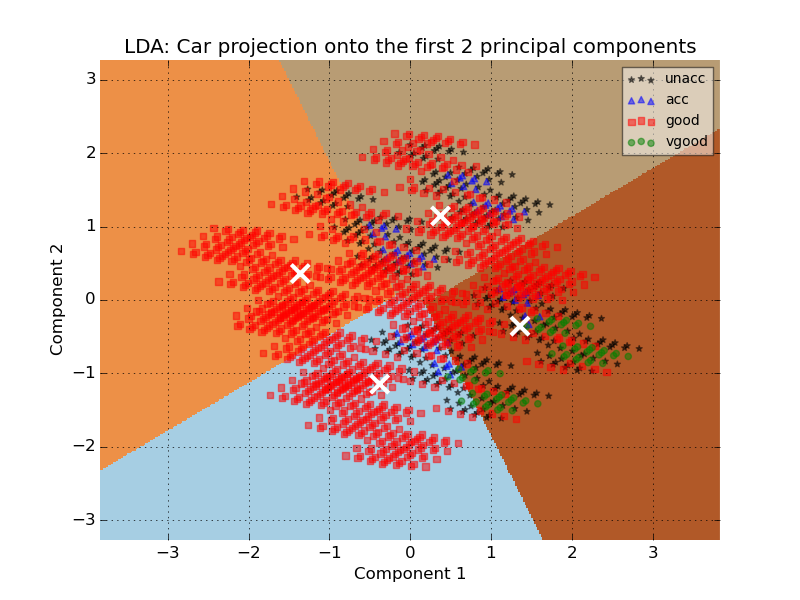
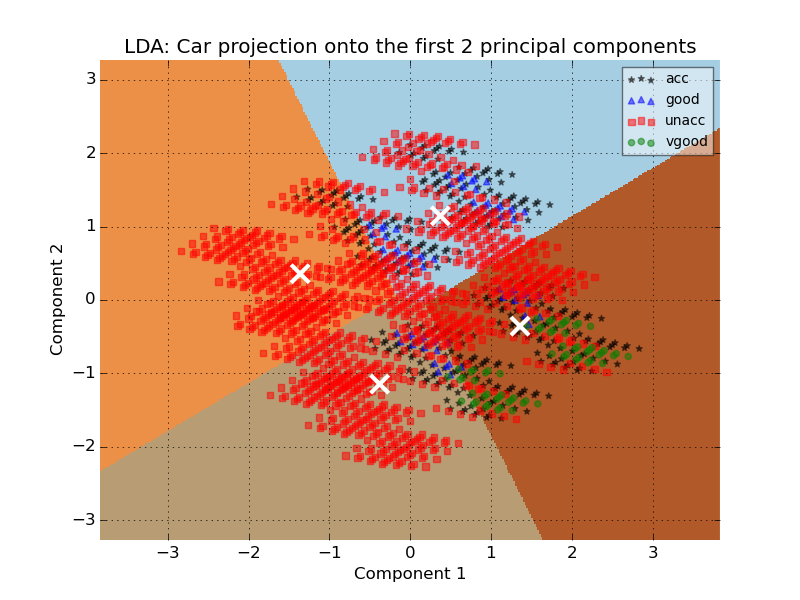
update

Changed region(s): [[0.125, 0.09, 0.9062, 0.9]]

diff --git a/proj3/experiments.py b/proj3/experiments.py
@@ -269,7 +269,7 @@ def plot_pro_1(x, y, alg, alg_name):
            cmap=plt.cm.Paired,
            aspect='auto', origin='lower')
     ax = plt.subplot(111)
-    label_dict = {0:'unacc', 1:'acc', 2:'good', 3:'vgood'}
+    label_dict = {2:'unacc', 0:'acc', 1:'good', 3:'vgood'}
     for label,marker,color in zip(
         range(0,4),('*', '^', 's', 'o'),('k','blue', 'red', 'green')):
 
@@ -360,6 +360,7 @@ if __name__=='__main__':
     x, y = load_data(dataset1)
     x_train, x_test, y_train, y_test = split_train_test(x, y, 0.3)
     dataset1 = dataset1.replace('.', '_')
+    print(y)
     
     print("--------------------------Experiment 1------------------------------")
     ks = [2,3,4,5,6,7]
@@ -372,24 +373,26 @@ if __name__=='__main__':
     print("--------------------------Experiment 3------------------------------")
     scaler = StandardScaler(with_mean=False)
     X = scaler.fit_transform(x)
-    exp3(dataset1, 4, X, y, ns)
+#    exp3(dataset1, 4, X, y, ns)
     plot_pro_1(X, y, LinearDiscriminantAnalysis ,'LDA')
+    plot_pro_1(X, y, PCA ,'PCA')
 
     dataset2 = 'tic-tac-toe.data' # 9 attributes 2 classes
     print("-----------------------------------Dataset 2--------------------------------------")
     x, y = load_data(dataset2,attributes=10)
     x_train, x_test, y_train, y_test = split_train_test(x, y, 0.2)
     dataset2 = dataset2.replace('.', '_')
+#    print(y)
 
     print("--------------------------Experiment 1------------------------------")
     ks = [2,3,4,5]
-    clustering(dataset2, x, y, ks)
+#    clustering(dataset2, x, y, ks)
 
     print("--------------------------Experiment 2------------------------------")
     ns = [1,2,3,4,5,6,7,8,9]
-    dimension_reduction(dataset2, x, y, ns)
+#    dimension_reduction(dataset2, x, y, ns)
 
     print("--------------------------Experiment 3------------------------------")
     X = scaler.fit_transform(x)
-    exp3(dataset2, 2, X, y, ns)
-    plot_pro_2(X, y, PCA, 'PCA')
+#    exp3(dataset2, 2, X, y, ns)
+#    plot_pro_2(X, y, PCA, 'PCA')
